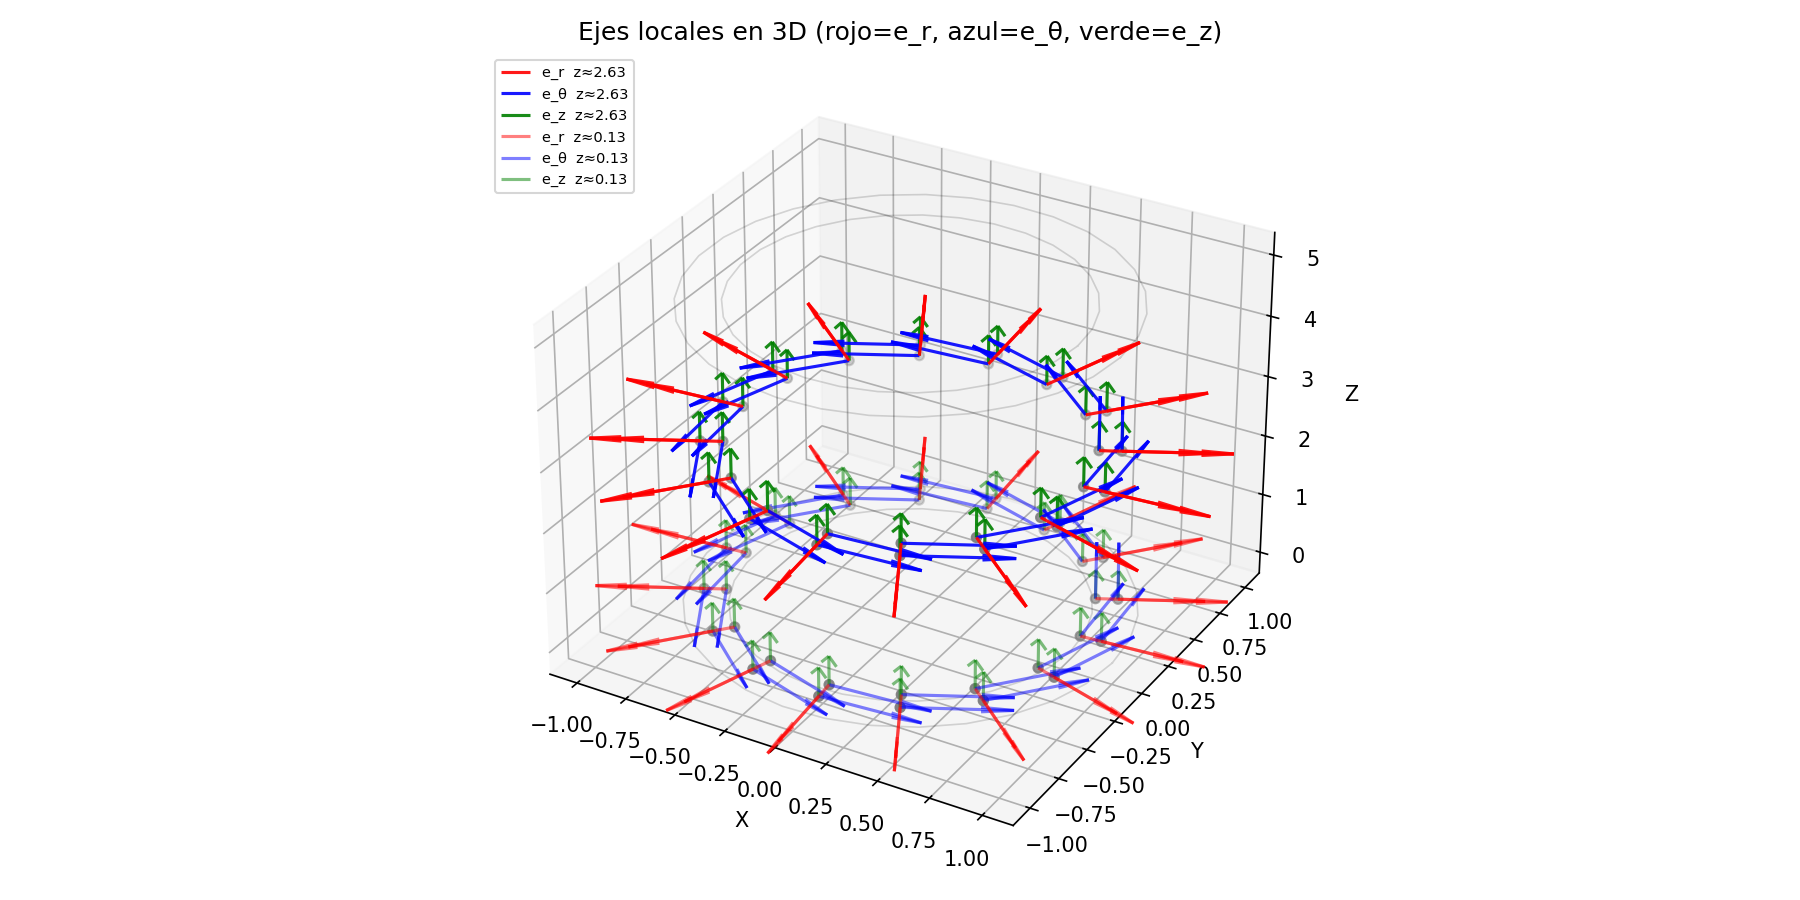
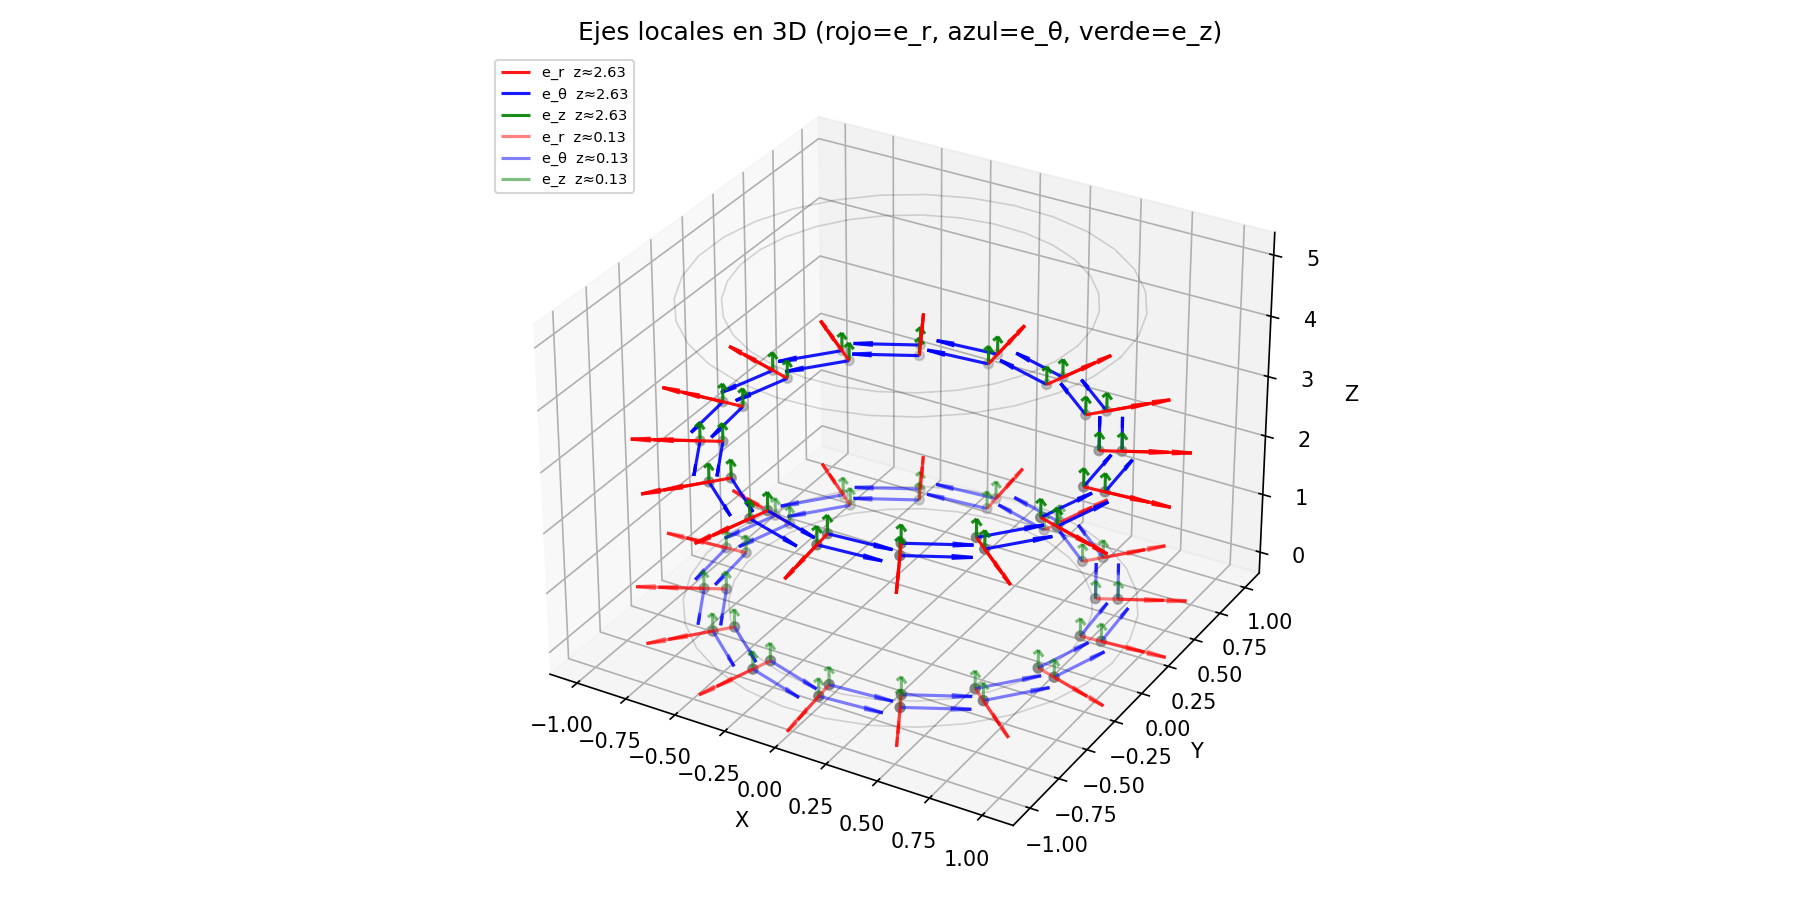
Shrink local axes arrows in plot_local_axes.py

Changed region(s): [[0.3422, 0.3422, 0.6844, 0.8089], [0.6533, 0.56, 0.6844, 0.5911], [0.3422, 0.7156, 0.3733, 0.7467]]

diff --git a/estudio_tubo_ortho/plot_local_axes.py b/estudio_tubo_ortho/plot_local_axes.py
@@ -133,10 +133,10 @@ for ax, z_target in zip(axes_arr, z_show):
     ax.plot(ro*np.cos(theta), ro*np.sin(theta), 'k-',  lw=0.8, alpha=0.4, label='ro')
 
     # Flechas e_r y e_th
-    # scale=8: flechas de longitud 1/8 = 0.125 unidades de datos
-    ax.quiver(px, py, er_x,  er_y,  color='red',  scale=8, scale_units='xy',
+    # scale=13: flechas de longitud 1/13 ≈ 0.077 unidades de datos
+    ax.quiver(px, py, er_x,  er_y,  color='red',  scale=13, scale_units='xy',
               angles='xy', width=0.004, headwidth=4, label='e_r',  alpha=0.9)
-    ax.quiver(px, py, eth_x, eth_y, color='blue', scale=8, scale_units='xy',
+    ax.quiver(px, py, eth_x, eth_y, color='blue', scale=13, scale_units='xy',
               angles='xy', width=0.004, headwidth=4, label='e_θ', alpha=0.9)
 
     ax.scatter(px, py, s=15, color='gray', zorder=5)
@@ -165,13 +165,13 @@ for mask, label_sfx, alpha in [(mask_3d, f'z≈{z_mid:.2f}', 0.9),
                                  (mask_end, f'z≈{z_vals[0]:.2f}', 0.5)]:
     px, py, pz = P[mask, 0], P[mask, 1], P[mask, 2]
     ax3.quiver(px, py, pz,
-               ER[mask,0]*scale*8, ER[mask,1]*scale*8, ER[mask,2]*scale*8,
+               ER[mask,0]*scale*5, ER[mask,1]*scale*5, ER[mask,2]*scale*5,
                color='red', alpha=alpha, label=f'e_r  {label_sfx}')
     ax3.quiver(px, py, pz,
-               ETH[mask,0]*scale*8, ETH[mask,1]*scale*8, ETH[mask,2]*scale*8,
+               ETH[mask,0]*scale*5, ETH[mask,1]*scale*5, ETH[mask,2]*scale*5,
                color='blue', alpha=alpha, label=f'e_θ  {label_sfx}')
     ax3.quiver(px, py, pz,
-               EZ[mask,0]*scale*8, EZ[mask,1]*scale*8, EZ[mask,2]*scale*8,
+               EZ[mask,0]*scale*5, EZ[mask,1]*scale*5, EZ[mask,2]*scale*5,
                color='green', alpha=alpha, label=f'e_z  {label_sfx}')
     ax3.scatter(px, py, pz, s=20, color='gray', zorder=5)
 
